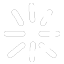
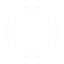
Fixed animations skipping the last frame

diff --git a/Tank/BitmapAnimation.cs b/Tank/BitmapAnimation.cs
@@ -63,7 +63,7 @@ namespace Tank
             currentIndex++;
 
             // Ensure the index doesn't go beyond the sequence.
-            if (currentIndex >= sequence.Length - 1)
+            if (currentIndex >= sequence.Length)
             {
                 timer.Stop();
                 OnFinish?.Invoke(this, EventArgs.Empty);

diff --git a/Tank/Tank.cs b/Tank/Tank.cs
@@ -66,7 +66,7 @@ namespace Tank
         public bool gameOver;
 
         public const int PlayerFireRate = 450;
-        public const int AIFireRate = 900;
+        public const int AIFireRate = 1200;
         bool canShoot = true;
         Size originalSize;
         Timer rofTimer = new();
